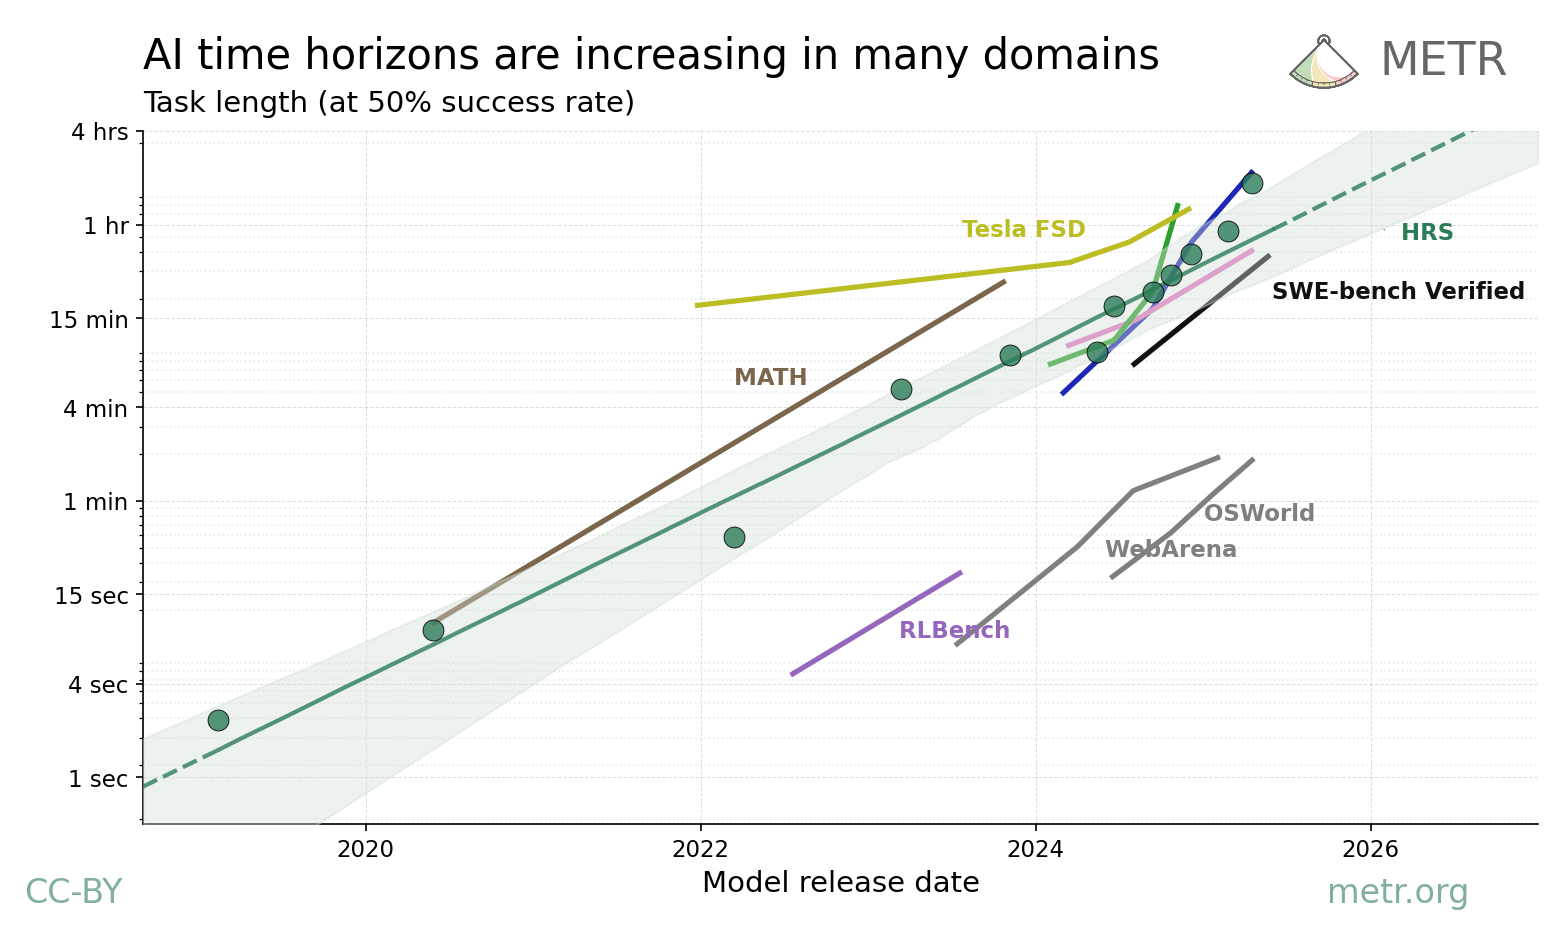
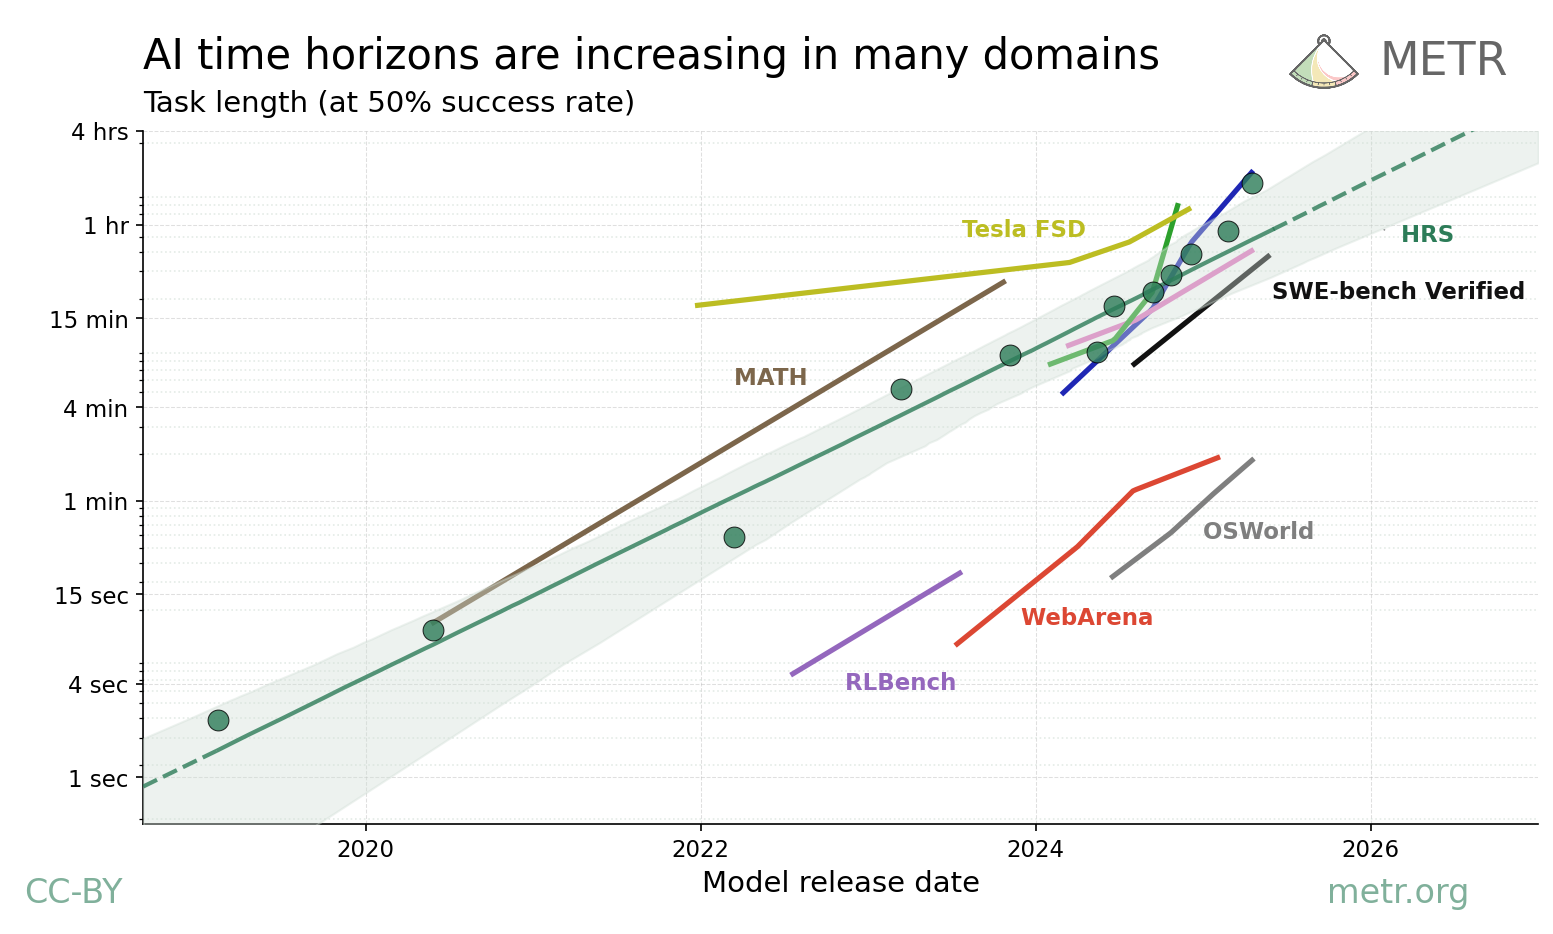
added webarena to plots, changed color and label placement

diff --git a/combined.py b/combined.py
@@ -746,7 +746,7 @@ def plot_combined(df, output_file,
                 if bench in ['mock_aime', 'livecodebench_2411_2505', 'gpqa_diamond']:
                     continue  
                 
-                if bench in ['hendrycks_math', 'tesla_fsd', 'swe_bench_verified']:
+                if bench in ['hendrycks_math', 'tesla_fsd', 'swe_bench_verified','webarena','rlbench']:
                     # Manual positioning for these specific benchmarks
                     if bench == 'hendrycks_math':
                         label_y *= 3
@@ -755,6 +755,12 @@ def plot_combined(df, output_file,
                     elif bench == 'swe_bench_verified':
                         label_y *= 1.3  
                         label_x += pd.Timedelta(days=120)  
+                    elif bench == 'webarena':
+                        label_y *= 0.3
+                        label_x += pd.Timedelta(days=-180)
+                    elif bench == 'rlbench':
+                        label_y *= 0.4
+                        label_x += pd.Timedelta(days=-110)
                     
                     # Create text but don't add to line_end_labels (won't be adjusted by adjustText)
                     text = ax.text(label_x, label_y, f"  {label_text}", 

diff --git a/plotting_aliases.py b/plotting_aliases.py
@@ -31,6 +31,7 @@ benchmark_colors = defaultdict(lambda: '#808080', {
     "swe_bench_verified": "#111111",
     "tesla_fsd": "#bcbd22",
     "video_mme": "#17becf",
+    "webarena": "#dc4733"
 })
 plotting_aliases = {
     "gemini_1_5_pro_002": "G 1.5 Pro",
